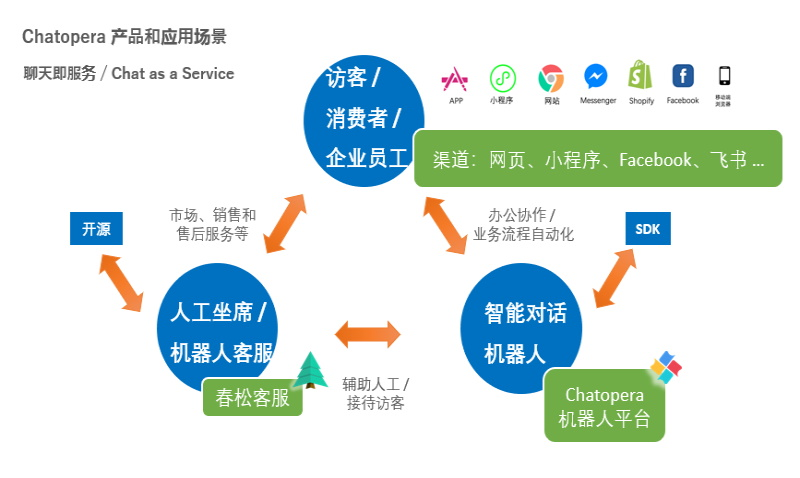
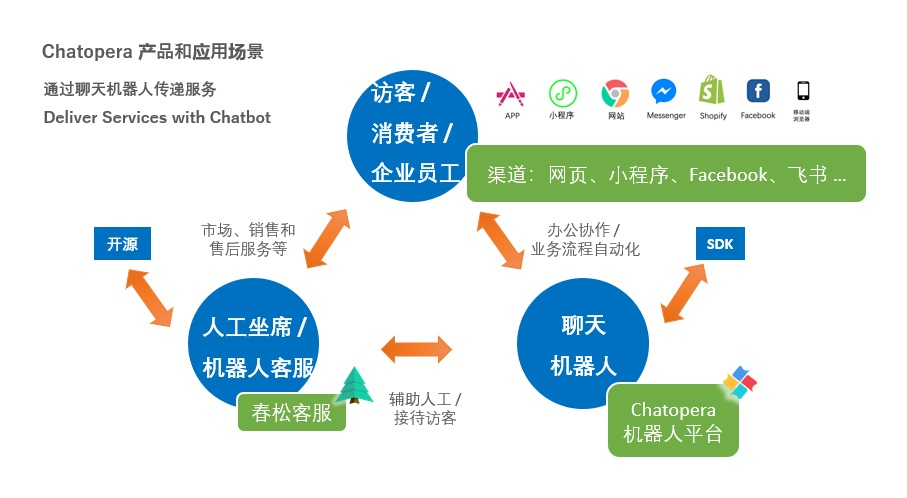
Modify descriptions for chatopera (#189)

diff --git a/docs/_portfolios/chatopera.md b/docs/_portfolios/chatopera.md
@@ -1,7 +1,7 @@
 ---
 name: Chatopera
 site: https://www.chatopera.com
-bio: Chat as a Service, 聊天即服务
+bio: 通过聊天机器人传递服务
 twitter: https://weibo.com/u/6680792124
 avatar: /assets/portfolios/chatopera/icon.png
 people:
@@ -15,7 +15,7 @@ videos:
   - https://www.youtube.com/watch?v=XkQwqMLEEcA
 ---
 
-[北京华夏春松科技有限公司](https://www.chatopera.com) 加速企业应用人工智能技术，提升协作和服务效率，帮助企业落地智能对话机器人和智能客服系统。华夏春松成立于 2018 年 6 月，本着诚信、创新和负责的价值观，在人工智能、业务流程引擎、自然语言处理等方面有多年的积累，成立之初获得 PreAngel Fund 和 Plug and Play(中国) 的种子投资，目前已通过国家高新技术企业认定（2020）和中关村高新技术企业认定（2019）。
+[Chatopera](https://www.chatopera.com) 帮助企业提升协作和服务效率，通过落地聊天机器人和智能客服系统，加速企业应用人工智能技术。本着诚信、创新和负责的价值观，Chatopera 成立于 2018 年 6 月，团队在人工智能、业务流程引擎、自然语言处理等方面有多年的积累，成立之初获得 PreAngel Fund 和 Plug and Play(中国) 的种子投资，目前已通过国家高新技术企业认定（2020）和中关村高新技术企业认定（2019）。
 
 ## 价值提供
 
@@ -24,4 +24,4 @@ videos:
 ## 核心产品
 
 - [Chatopera 云服务](https://docs.chatopera.com/): 快速上线聊天机器人
-- [春松客服](https://www.cskefu.com): 越是重视客户服务，越是好的企业
+- [春松客服](https://www.cskefu.com): 开源的智能客服系统
